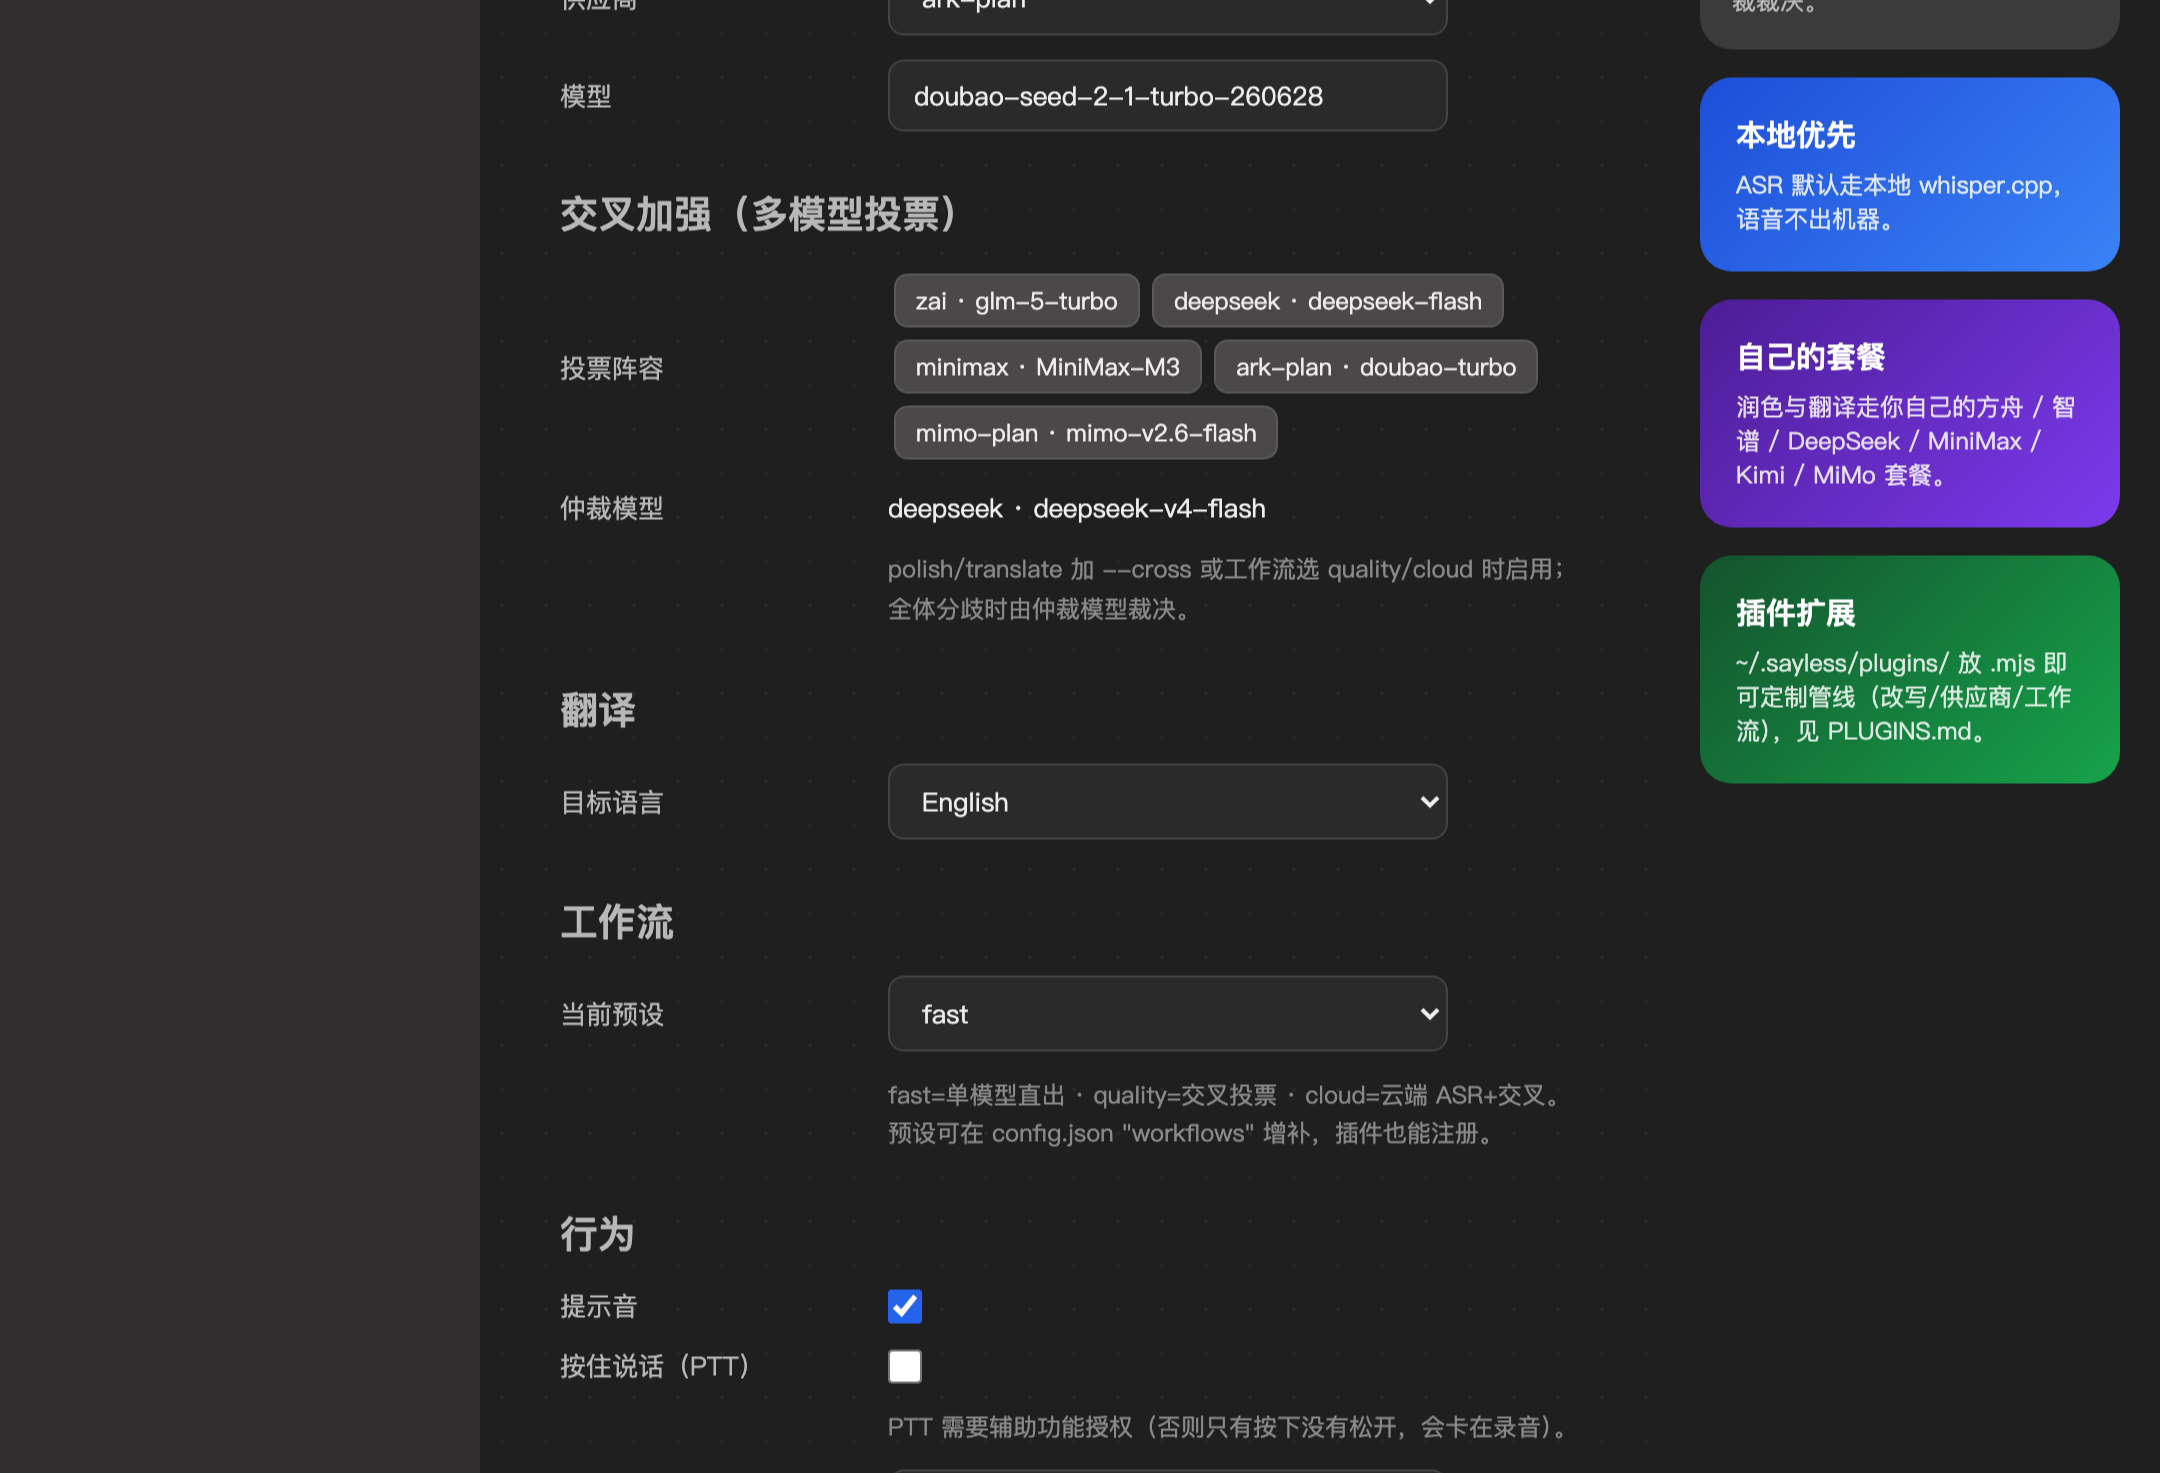
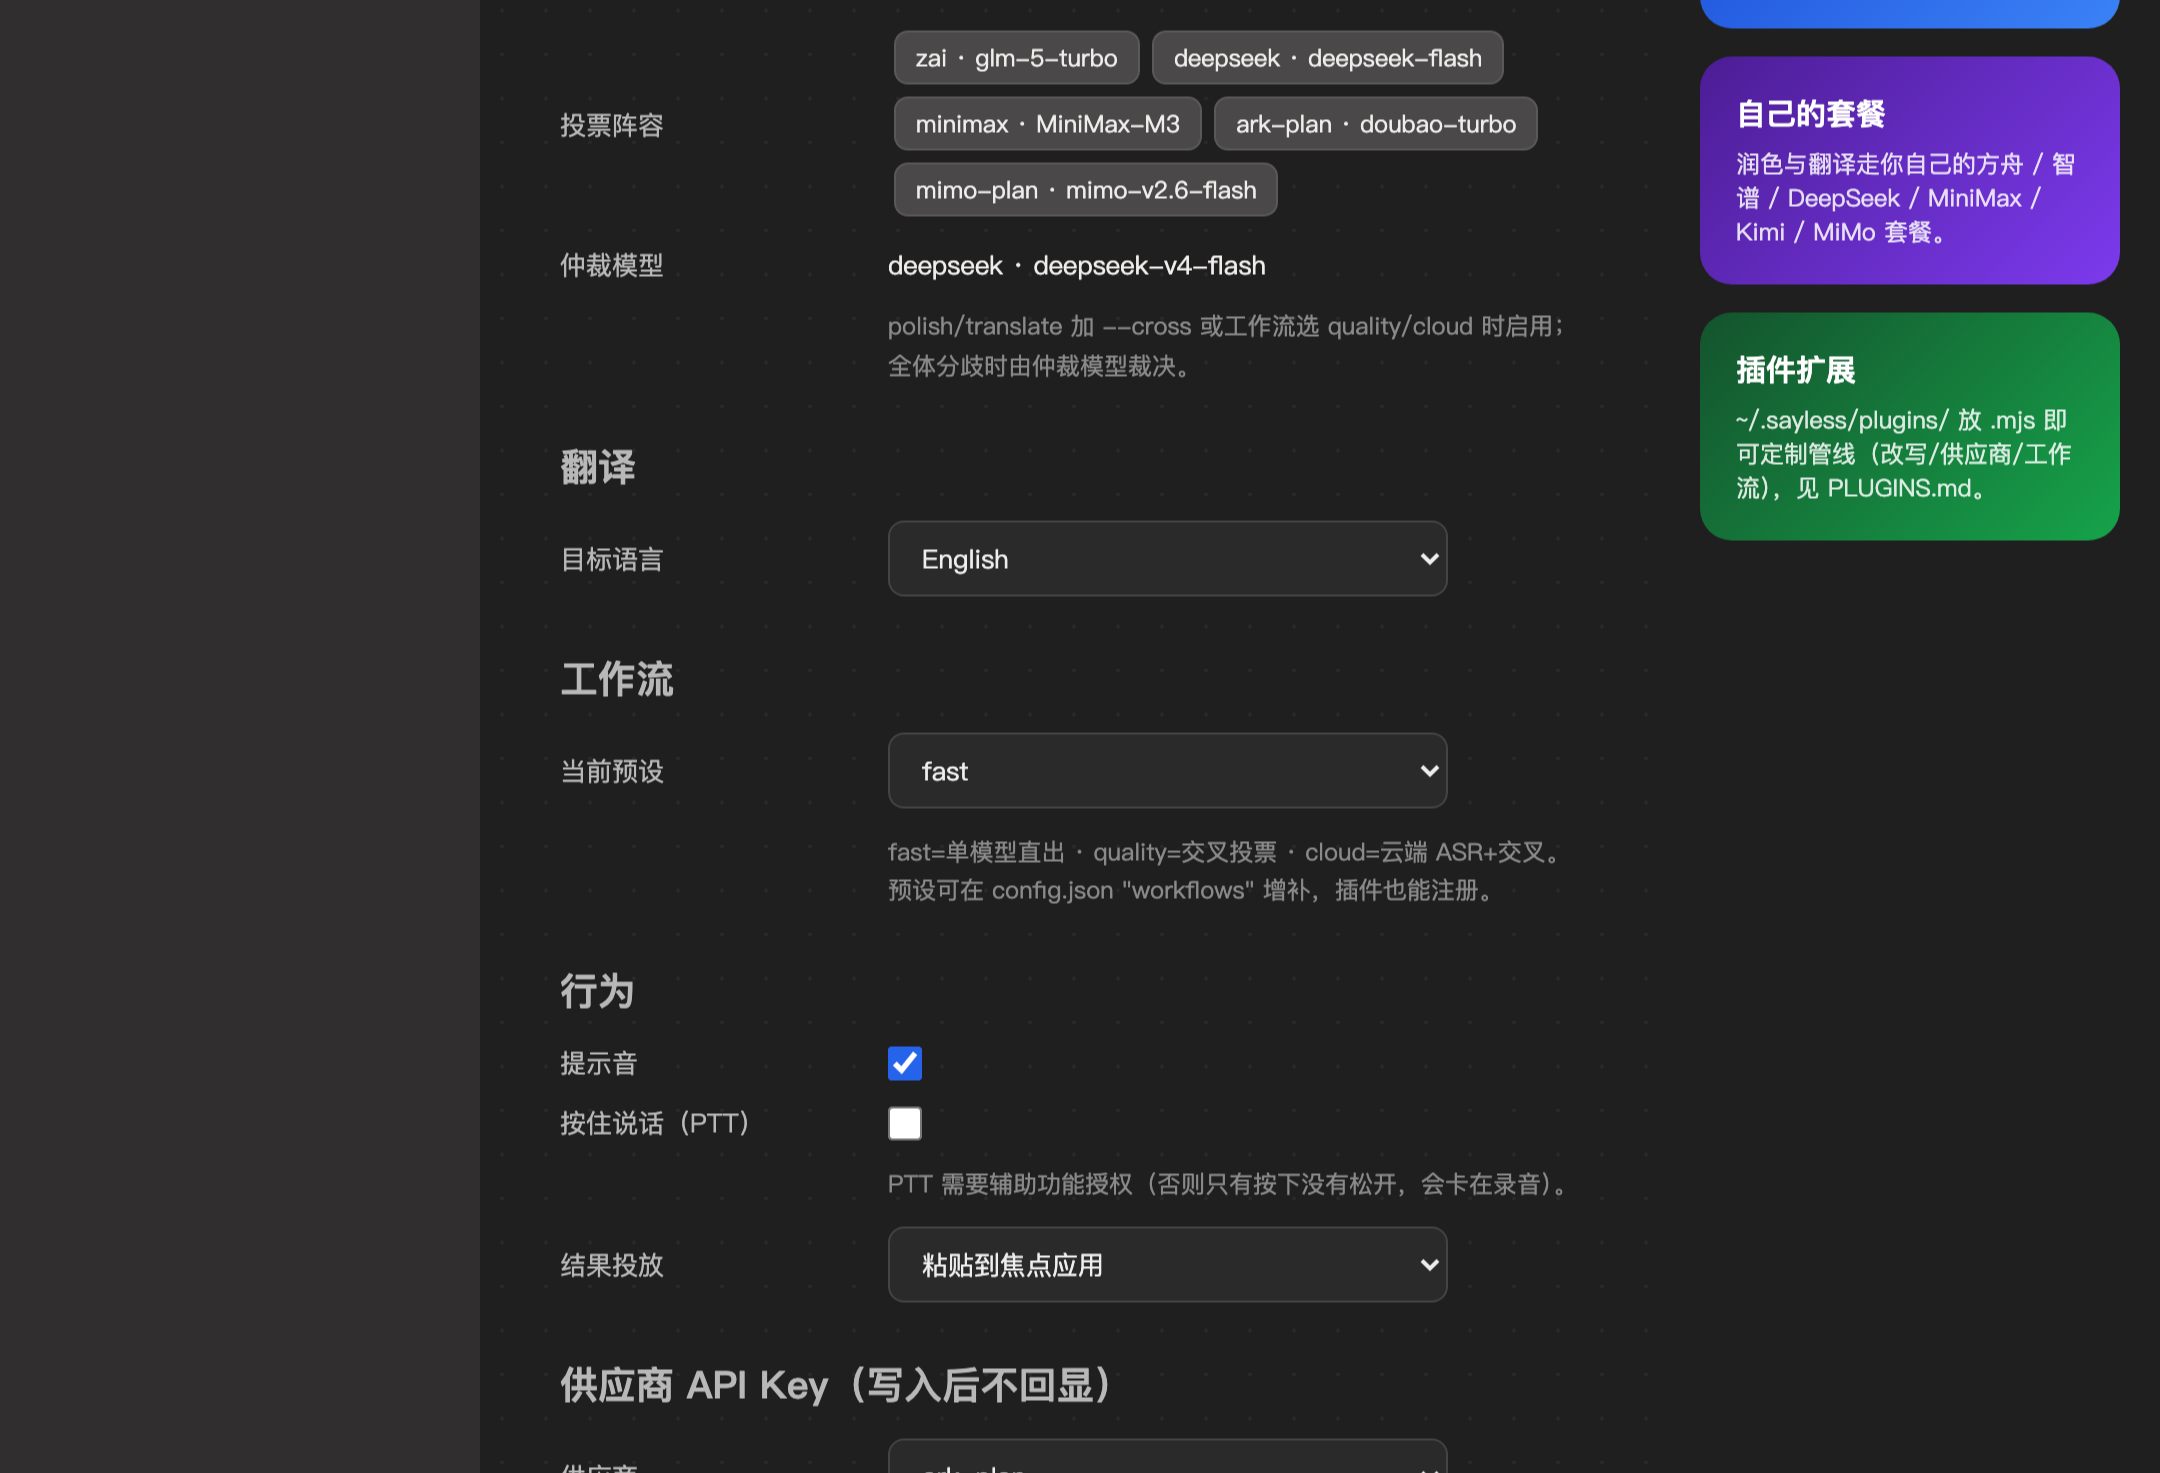
hub settings: provider API key write-in (write-only, never echoed)
Public-release gap: there was no UI to configure API keys — keys had to
be hand-edited into config.json. Settings page now has a provider select
+ password input; Swift 'setKey' handler writes providers.<id>.apiKey
(preserving 0600 and all other fields). Keys are never injected into or
echoed by the page; screenshots regenerated with the new section.

diff --git a/app/hub.html b/app/hub.html
@@ -175,6 +175,12 @@ input[type=checkbox]{width:17px;height:17px;accent-color:#2563eb}
         </select>
       </div>
 
+      <h2 class="sec">供应商 API Key（写入后不回显）</h2>
+      <div class="frow"><label>供应商</label><select id="s-key-provider"></select></div>
+      <div class="frow"><label>API Key</label><input type="password" id="s-key-value" placeholder="粘贴 key；留空 = 不修改" autocomplete="off"></div>
+      <div class="frow"><label></label><button class="btn" onclick="saveKey()">写入 Key</button><span id="keymsg" style="font-size:13px;color:#4ade80;margin-left:12px"></span></div>
+      <div class="hint">key 只写入本地 ~/.sayless/config.json（0600 权限），页面不回显、不注入。各家套餐专属域名见 README「多模型」表。</div>
+
       <h2 class="sec">快捷键（只读）</h2>
       <div class="frow"><label>当前键位</label><div id="s-hotkeys" style="font-size:13px"></div></div>
       <div class="hint">改键：编辑 ~/.sayless/config.json 的 "hotkeys"（slot: dictate/translate/ask，key 为 macOS 键码，modifier: option/command/control/shift/none），保存后重启 SaylessBar 生效。</div>
@@ -183,7 +189,7 @@ input[type=checkbox]{width:17px;height:17px;accent-color:#2563eb}
         <button class="btn" onclick="saveCfg()">保存设置</button>
         <span id="cfgmsg"></span>
       </div>
-      <p style="font-size:12px;color:#888;margin-top:14px">保存写入 ~/.sayless/config.json（key 等敏感字段不在此页显示、也不会被覆盖）。插件扩展见仓库 PLUGINS.md：~/.sayless/plugins/ 放 .mjs 即可定制管线。</p>
+      <p style="font-size:12px;color:#888;margin-top:14px">保存写入 ~/.sayless/config.json（0600）。API Key 支持在上方"供应商 API Key"写入，写入后不回显；已有 key 不会被读取或覆盖。插件扩展见仓库 PLUGINS.md：~/.sayless/plugins/ 放 .mjs 即可定制管线。</p>
     </div>
   </div>
 </div>
@@ -233,6 +239,8 @@ function buildSettings(){
   document.getElementById('s-workflow').innerHTML = wfs.map(function(w){
     return '<option value="' + esc(w) + '">' + esc(w) + '</option>';
   }).join('');
+  // 供应商 Key 下拉（与润色供应商同一份列表）
+  document.getElementById('s-key-provider').innerHTML = sel.innerHTML;
   // 现值回填
   var asr = (CFG && CFG.asr) || {};
   sv('s-asr-adapter', asr.adapter || 'whisper');
@@ -286,6 +294,14 @@ function saveCfg(){
   dictPost({ action: 'saveCfg', config: stripEmpty(c) });
   var el = document.getElementById('cfgmsg'); el.textContent = '已保存 ✓（重新听写即生效）';
   setTimeout(function(){ el.textContent = ''; }, 3000);
+}
+function saveKey(){
+  var k = gv('s-key-value');
+  if (!k) { var el0 = document.getElementById('keymsg'); el0.textContent = '留空即不修改'; setTimeout(function(){ el0.textContent=''; }, 2000); return; }
+  dictPost({ action: 'setKey', provider: gv('s-key-provider'), key: k });
+  document.getElementById('s-key-value').value = '';
+  var el = document.getElementById('keymsg'); el.textContent = '已写入 ✓（立即生效）';
+  setTimeout(function(){ el.textContent=''; }, 3000);
 }
 function go(i, el){
   document.querySelectorAll('.tab').forEach((t,idx)=>t.classList.toggle('on', idx===i));

diff --git a/app/SaylessBar.swift b/app/SaylessBar.swift
@@ -528,6 +528,25 @@ extension HubWindow: WKScriptMessageHandler {
                     logLine("cfg saved from hub")
                 }
             }
+        case "setKey":
+            // 写入供应商 apiKey：只写不读（页面永不回显 key），保留 0600
+            let prov = j["provider"] as? String ?? "", key = j["key"] as? String ?? ""
+            if !prov.isEmpty && !key.isEmpty {
+                let cfgFile = NSHomeDirectory() + "/.sayless/config.json"
+                if let raw = try? String(contentsOfFile: cfgFile, encoding: .utf8),
+                   var cfg = (try? JSONSerialization.jsonObject(with: raw.data(using: .utf8)!)) as? [String: Any] {
+                    var providers = (cfg["providers"] as? [String: Any]) ?? [:]
+                    var entry = (providers[prov] as? [String: Any]) ?? [:]
+                    entry["apiKey"] = key
+                    providers[prov] = entry
+                    cfg["providers"] = providers
+                    if let out = try? JSONSerialization.data(withJSONObject: cfg, options: [.prettyPrinted]) {
+                        try? out.write(to: URL(fileURLWithPath: cfgFile))
+                        try? FileManager.default.setAttributes([.posixPermissions: 0o600], ofItemAtPath: cfgFile)
+                    }
+                    logLine("apiKey written for \(prov)")
+                }
+            }
         default: break
         }
         if dirty {
